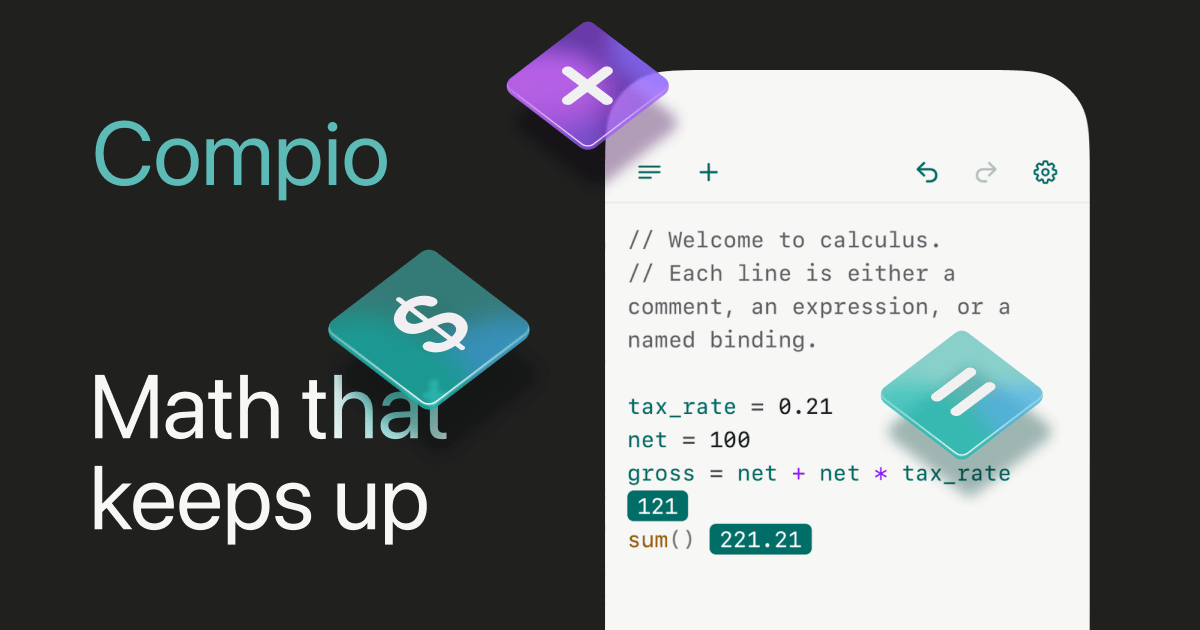
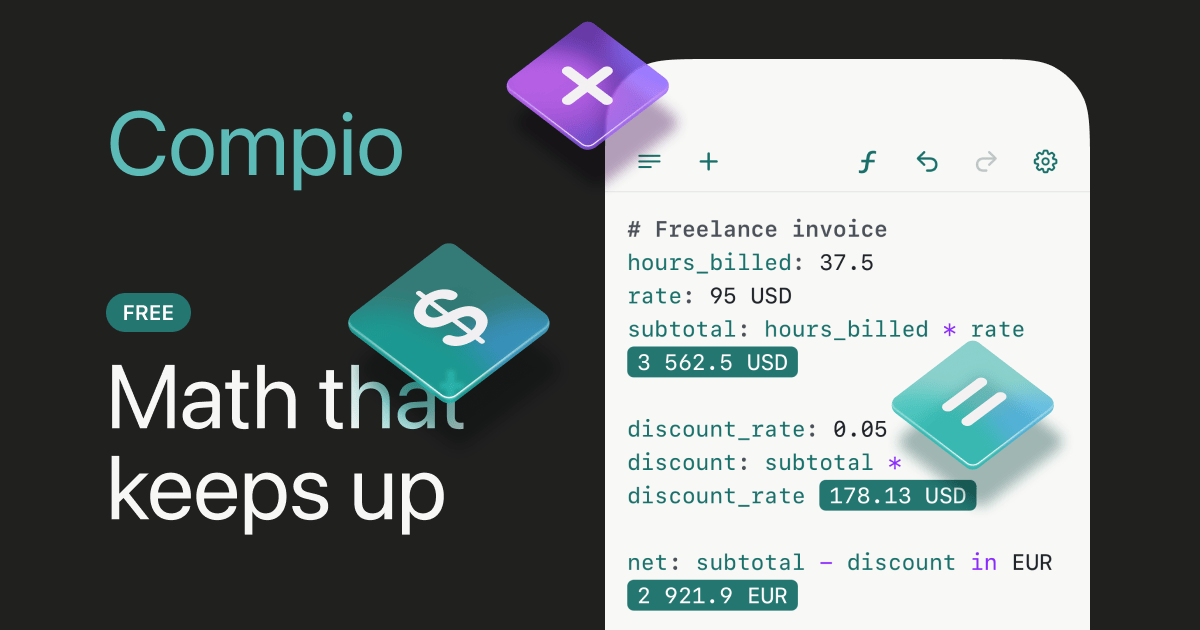
upd image and tags

diff --git a/index.html b/index.html
@@ -31,12 +31,12 @@
     <link rel="stylesheet" href="/src/styles.css" />
     <meta name="viewport" content="width=device-width, initial-scale=1, minimum-scale=1, maximum-scale=1, interactive-widget=resizes-content, user-scalable=no">
     <meta name="theme-color" content="#151C20" />
-    <meta name="description" content="Compio is a notebook-style calculator for everyday math. Name results, convert units and currencies, and see live answers line by line. Install as a PWA in your browser." />
+    <meta name="description" content="Write math line by line, assign variables, convert units and currencies, and see results update instantly — works offline when installed" />
     <link rel="canonical" href="__CALCULUS_SITE_URL__/" />
     <meta property="og:type" content="website" />
     <meta property="og:site_name" content="Compio" />
     <meta property="og:title" content="Compio — A Notebook Calculator for Everyday Math" />
-    <meta property="og:description" content="Compio is a notebook-style calculator for everyday math. Name results, convert units and currencies, and see live answers line by line. Install as a PWA in your browser." />
+    <meta property="og:description" content="Write math line by line, assign variables, convert units and currencies, and see results update instantly — works offline when installed" />
     <meta property="og:url" content="__CALCULUS_SITE_URL__/" />
     <meta property="og:image" content="__CALCULUS_SITE_URL__/og-image.png" />
     <meta property="og:image:width" content="1200" />
@@ -45,11 +45,11 @@
     <meta property="og:locale" content="en_US" />
     <meta name="twitter:card" content="summary_large_image" />
     <meta name="twitter:title" content="Compio — A Notebook Calculator for Everyday Math" />
-    <meta name="twitter:description" content="Compio is a notebook-style calculator for everyday math. Name results, convert units and currencies, and see live answers line by line. Install as a PWA in your browser." />
+    <meta name="twitter:description" content="Write math line by line, assign variables, convert units and currencies, and see results update instantly — works offline when installed" />
     <meta name="twitter:image" content="__CALCULUS_SITE_URL__/og-image.png" />
     <meta name="twitter:image:alt" content="Compio notebook calculator showing live math with units and named variables" />
     <link rel="apple-touch-icon" href="./apple-touch-icon-180x180.png" />
-    <title>Compio — A Notebook Calculator for Everyday Math</title>
+    <title>Compio — live notebook calculator</title>
   </head>
   <body>
     <div id="app-shell">